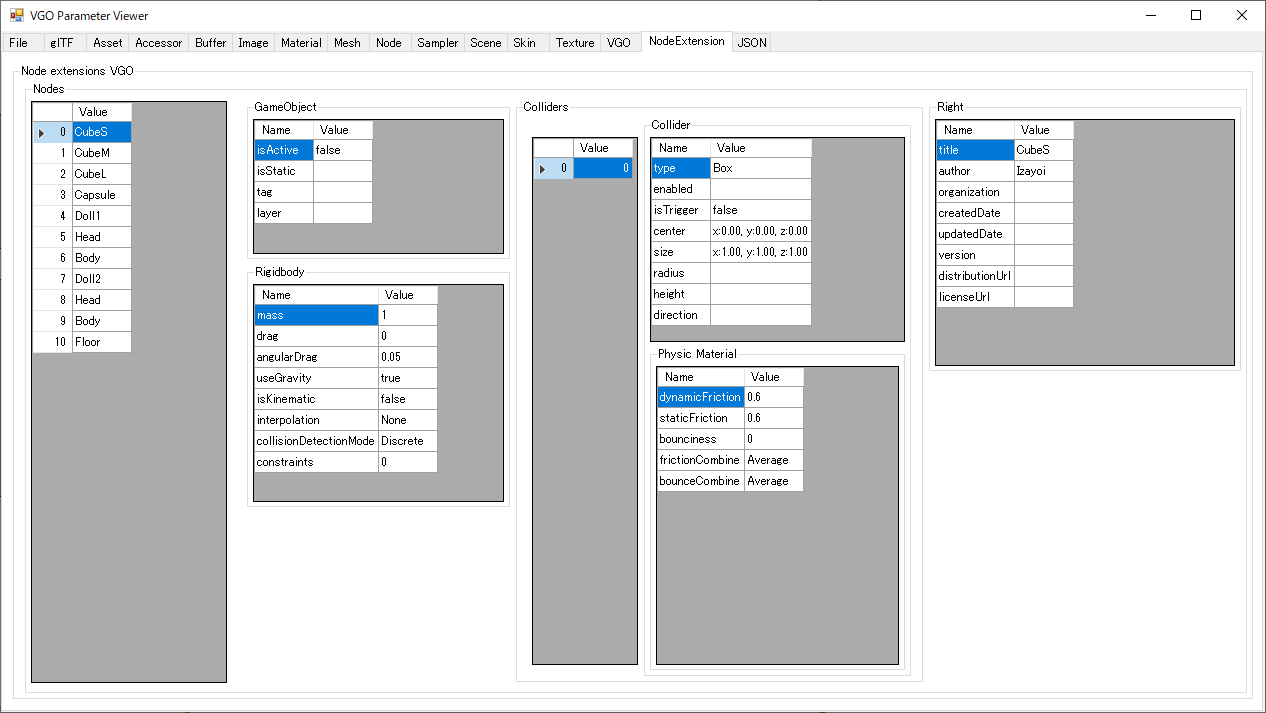
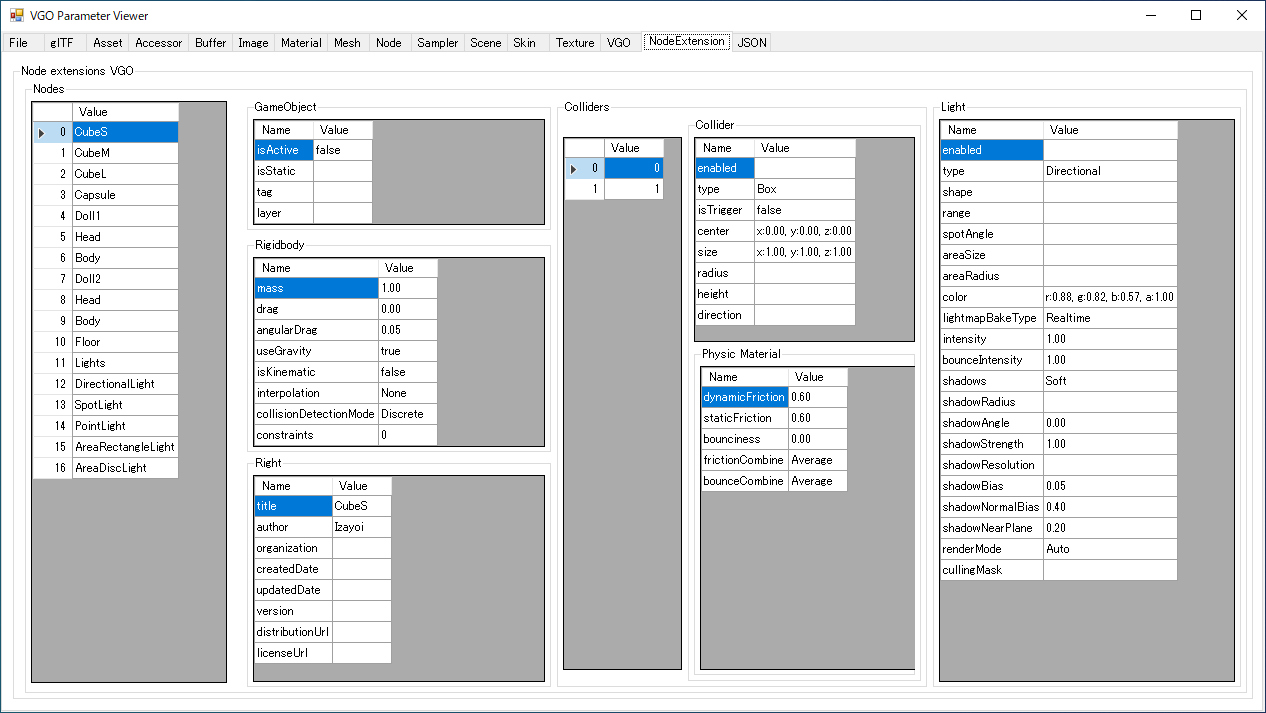
version 1.2.0

diff --git a/README.md b/README.md
@@ -25,8 +25,8 @@ Download exe and place it anywhere.
 
 ## Specification Version
 - glTF JSON Schema: [2.0](https://github.com/KhronosGroup/glTF/tree/master/specification/2.0/schema)
-- VGO JSON Schema: [0.2](https://github.com/izayoijiichan/VGO/tree/master/Documentation~/VGO/specification/0.2/schema)
-- UniVGO: v0.4.0 (8 Jan, 2020)
+- VGO JSON Schema: [0.3](https://github.com/izayoijiichan/VGO/tree/master/Documentation~/VGO/specification/0.3/schema)
+- UniVGO: v0.5.0 (14 Jan, 2020)
 
 ## Implementation
 - glTF
@@ -47,6 +47,7 @@ Download exe and place it anywhere.
           - collider
             - physicMaterial
         - rigidbody
+        - light
         - right
   - samplers
   - scene
